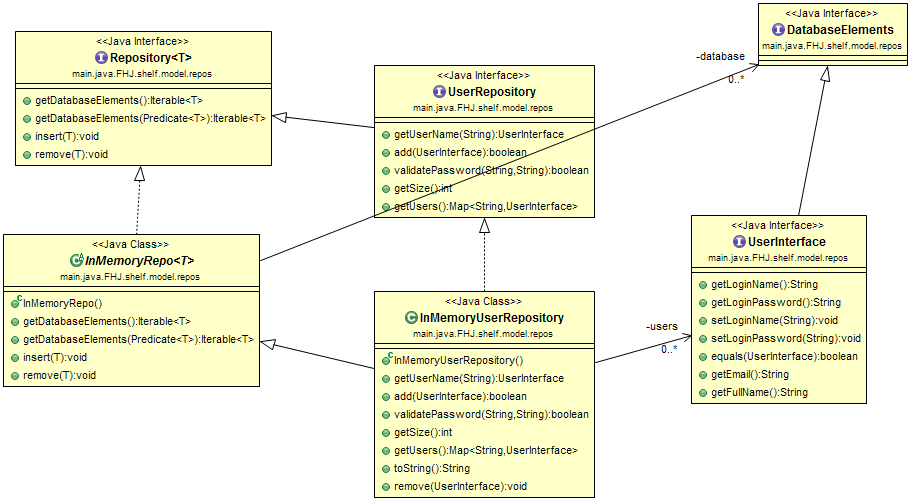
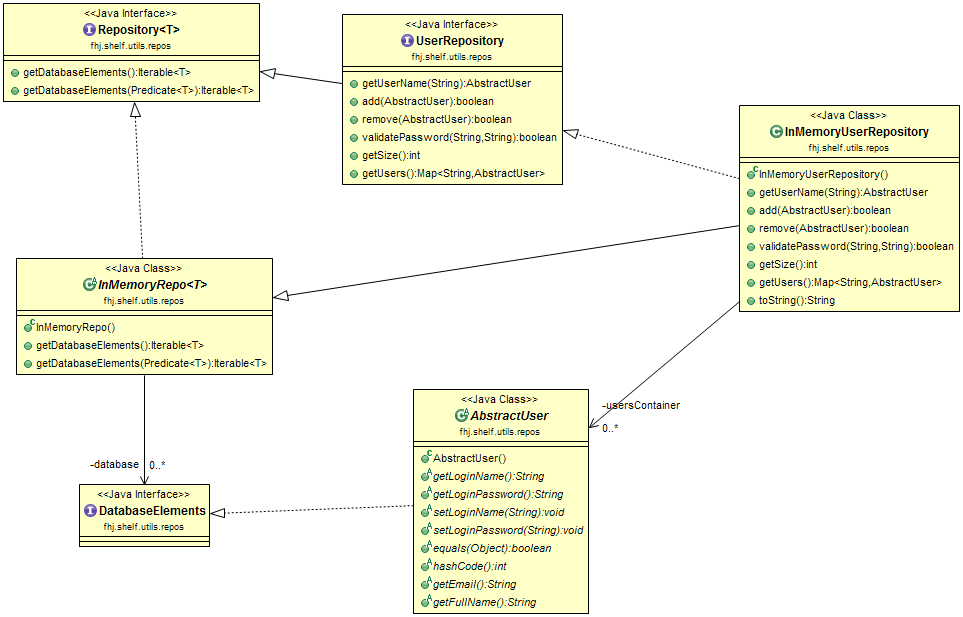
the end of cycles move abstractuser abstractshelf and user to repos package

diff --git a/gui-app/src/main/java/fhj/shelf/UI/BookCollection.java b/gui-app/src/main/java/fhj/shelf/UI/BookCollection.java
@@ -1,11 +1,9 @@
 package fhj.shelf.UI;
 
 import java.awt.HeadlessException;
-
 import java.awt.event.ActionEvent;
 import java.awt.event.ActionListener;
 import java.util.Map;
-
 import java.util.Map.Entry;
 import java.util.concurrent.ExecutionException;
 
@@ -14,16 +12,13 @@ import javax.swing.JComboBox;
 import javax.swing.JFrame;
 import javax.swing.JLabel;
 import javax.swing.JOptionPane;
-
 import javax.swing.JTextField;
 import javax.swing.SwingWorker;
+
 import fhj.shelf.commandsDomain.CreateAnElementInAShelf;
 import fhj.shelf.commandsDomain.GetAllShelfs;
-
-import fhj.shelf.utils.AbstractShelf;
-
+import fhj.shelf.utils.repos.AbstractShelf;
 import fhj.shelf.utils.repos.ElementsRepository;
-
 import fhj.shelf.utils.repos.ShelfRepository;
 
 @SuppressWarnings("serial")

diff --git a/domain/src/main/java/fhj/shelf/utils/repos/AbstractShelf.java b/domain/src/main/java/fhj/shelf/utils/repos/AbstractShelf.java
@@ -1,9 +1,9 @@
-package fhj.shelf.utils;
+package fhj.shelf.utils.repos;
 
 import java.util.Iterator;
 import java.util.concurrent.atomic.AtomicInteger;
 
-import fhj.shelf.utils.repos.DatabaseElements;
+import fhj.shelf.utils.Element;
 
 public abstract class AbstractShelf implements DatabaseElements {
 
@@ -34,11 +34,11 @@ public abstract class AbstractShelf implements DatabaseElements {
 	
 	public abstract void removeAllElements ();
 	
-	public abstract boolean remove(Element element);
+	public abstract boolean remove(AbstractElement element);
 
-	public abstract boolean add(Element element) ;
+	public abstract boolean add(AbstractElement element) ;
 
-	public abstract Iterator<Element> getAllElements();
+	public abstract Iterator<AbstractElement> getAllElements();
 
 
 }

diff --git a/gui-app/src/main/java/fhj/shelf/UI/ShelfDetails.java b/gui-app/src/main/java/fhj/shelf/UI/ShelfDetails.java
@@ -1,7 +1,6 @@
 package fhj.shelf.UI;
 
 import javax.swing.JFrame;
-
 import javax.swing.JScrollPane;
 import javax.swing.ListSelectionModel;
 import javax.swing.ScrollPaneConstants;
@@ -9,19 +8,16 @@ import javax.swing.SwingWorker;
 
 import java.awt.Dimension;
 import java.awt.FlowLayout;
-
 import java.util.Map;
 import java.util.Map.Entry;
 import java.util.concurrent.ExecutionException;
 
 import javax.swing.JTable;
-
 import javax.swing.JLabel;
-
 import javax.swing.table.DefaultTableModel;
 
 import fhj.shelf.commandsDomain.GetAllShelfs;
-import fhj.shelf.utils.AbstractShelf;
+import fhj.shelf.utils.repos.AbstractShelf;
 import fhj.shelf.utils.repos.ShelfRepository;
 import fhj.shelf.utils.repos.UserRepository;
 

diff --git a/domain/src/main/java/fhj/shelf/utils/repos/ElementsRepository.java b/domain/src/main/java/fhj/shelf/utils/repos/ElementsRepository.java
@@ -1,6 +1,5 @@
 package fhj.shelf.utils.repos;
 
-import fhj.shelf.utils.AbstractElement;
 
 
 
@@ -13,6 +12,13 @@ import fhj.shelf.utils.AbstractElement;
 
 	public interface ElementsRepository extends Repository<AbstractElement> {
 
+		
+		public abstract boolean add(AbstractElement element);
+		
+		
+		public abstract boolean remove(AbstractElement element);
+		
+		
 		/**
 		 * Gets the product with the given id, or {@code null} if none exists
 		 *  
@@ -21,8 +27,5 @@ import fhj.shelf.utils.AbstractElement;
 		 */
 		public AbstractElement getDatabaseElementById(long eid);
 
-		public abstract boolean add(AbstractElement element);
-
-		public abstract boolean remove(AbstractElement element);
 	}
 

diff --git a/gui-app/src/main/java/fhj/shelf/UI/CD.java b/gui-app/src/main/java/fhj/shelf/UI/CD.java
@@ -6,6 +6,7 @@ import java.awt.event.ActionListener;
 import java.util.Map;
 import java.util.Map.Entry;
 import java.util.concurrent.ExecutionException;
+
 import javax.swing.JButton;
 import javax.swing.JComboBox;
 import javax.swing.JFrame;
@@ -13,9 +14,10 @@ import javax.swing.JLabel;
 import javax.swing.JOptionPane;
 import javax.swing.JTextField;
 import javax.swing.SwingWorker;
+
 import fhj.shelf.commandsDomain.CreateAnElementInAShelf;
 import fhj.shelf.commandsDomain.GetAllShelfs;
-import fhj.shelf.utils.AbstractShelf;
+import fhj.shelf.utils.repos.AbstractShelf;
 import fhj.shelf.utils.repos.ElementsRepository;
 import fhj.shelf.utils.repos.ShelfRepository;
 

diff --git a/cmdLine-app/src/main/java/fhj/shelf/commands/PostShelfCollectionElement.java b/cmdLine-app/src/main/java/fhj/shelf/commands/PostShelfCollectionElement.java
@@ -4,7 +4,6 @@ import java.util.Map;
 import java.util.concurrent.ExecutionException;
 
 import fhj.shelf.commands.exceptions.CommandException;
-import fhj.shelf.utils.AbstractElement;
 import fhj.shelf.utils.Book;
 import fhj.shelf.utils.BookCollection;
 import fhj.shelf.utils.CD;
@@ -12,6 +11,7 @@ import fhj.shelf.utils.CDCollection;
 import fhj.shelf.utils.DVD;
 import fhj.shelf.utils.DVDCollection;
 import fhj.shelf.utils.Shelf;
+import fhj.shelf.utils.repos.AbstractElement;
 import fhj.shelf.utils.repos.ElementsRepository;
 import fhj.shelf.utils.repos.ShelfRepository;
 import fhj.shelf.utils.repos.UserRepository;

diff --git a/domain/src/main/java/fhj/shelf/commandsDomain/EditShelfElement.java b/domain/src/main/java/fhj/shelf/commandsDomain/EditShelfElement.java
@@ -4,7 +4,6 @@ import java.lang.reflect.Method;
 import java.util.concurrent.Callable;
 
 import fhj.shelf.commandsDomain.exceptions.CommandDomainException;
-import fhj.shelf.utils.AbstractShelf;
 import fhj.shelf.utils.Book;
 import fhj.shelf.utils.BookCollection;
 import fhj.shelf.utils.CD;
@@ -12,6 +11,7 @@ import fhj.shelf.utils.CDCollection;
 import fhj.shelf.utils.DVD;
 import fhj.shelf.utils.DVDCollection;
 import fhj.shelf.utils.Element;
+import fhj.shelf.utils.repos.AbstractShelf;
 import fhj.shelf.utils.repos.ElementsRepository;
 import fhj.shelf.utils.repos.ShelfRepository;
 

diff --git a/domain/src/main/java/fhj/shelf/commandsDomain/CreateAnElementInAShelf.java b/domain/src/main/java/fhj/shelf/commandsDomain/CreateAnElementInAShelf.java
@@ -4,7 +4,6 @@ import java.lang.reflect.Method;
 import java.util.concurrent.Callable;
 
 import fhj.shelf.commandsDomain.exceptions.CommandDomainException;
-import fhj.shelf.utils.AbstractElement;
 import fhj.shelf.utils.Book;
 import fhj.shelf.utils.BookCollection;
 import fhj.shelf.utils.CD;
@@ -13,6 +12,7 @@ import fhj.shelf.utils.DVD;
 import fhj.shelf.utils.DVDCollection;
 import fhj.shelf.utils.Element;
 import fhj.shelf.utils.Shelf;
+import fhj.shelf.utils.repos.AbstractElement;
 import fhj.shelf.utils.repos.ElementsRepository;
 import fhj.shelf.utils.repos.ShelfRepository;
 

diff --git a/cmdLine-app/src/test/java/fhj/shelf/CommandParserTest.java b/cmdLine-app/src/test/java/fhj/shelf/CommandParserTest.java
@@ -16,12 +16,12 @@ import fhj.shelf.commands.PostElement;
 import fhj.shelf.commands.PostShelf;
 import fhj.shelf.commands.PostShelfCollectionElement;
 import fhj.shelf.commands.PostUser;
-import fhj.shelf.utils.User;
 import fhj.shelf.utils.repos.ElementsRepository;
 import fhj.shelf.utils.repos.InMemoryElementsRepository;
 import fhj.shelf.utils.repos.InMemoryShelfRepository;
 import fhj.shelf.utils.repos.InMemoryUserRepository;
 import fhj.shelf.utils.repos.ShelfRepository;
+import fhj.shelf.utils.repos.User;
 import fhj.shelf.utils.repos.UserRepository;
 
 import org.junit.Test;

diff --git a/cmdLine-app/src/main/java/fhj/shelf/ShelfManagerApp.java b/cmdLine-app/src/main/java/fhj/shelf/ShelfManagerApp.java
@@ -25,12 +25,12 @@ import fhj.shelf.commands.PostShelf;
 import fhj.shelf.commands.PostShelfCollectionElement;
 import fhj.shelf.commands.PostUser;
 import fhj.shelf.commands.exceptions.CommandException;
-import fhj.shelf.utils.User;
 import fhj.shelf.utils.repos.ElementsRepository;
 import fhj.shelf.utils.repos.InMemoryElementsRepository;
 import fhj.shelf.utils.repos.InMemoryShelfRepository;
 import fhj.shelf.utils.repos.InMemoryUserRepository;
 import fhj.shelf.utils.repos.ShelfRepository;
+import fhj.shelf.utils.repos.User;
 import fhj.shelf.utils.repos.UserRepository;
 
 /**

diff --git a/domain/src/main/java/fhj/shelf/commandsDomain/CreateAnElementInACollectionInAShelf.java b/domain/src/main/java/fhj/shelf/commandsDomain/CreateAnElementInACollectionInAShelf.java
@@ -5,8 +5,8 @@ import java.util.concurrent.Callable;
 
 
 
+
 import fhj.shelf.commandsDomain.exceptions.CommandDomainException;
-import fhj.shelf.utils.AbstractElement;
 import fhj.shelf.utils.Book;
 import fhj.shelf.utils.BookCollection;
 import fhj.shelf.utils.CD;
@@ -14,6 +14,7 @@ import fhj.shelf.utils.CDCollection;
 import fhj.shelf.utils.DVD;
 import fhj.shelf.utils.DVDCollection;
 import fhj.shelf.utils.Shelf;
+import fhj.shelf.utils.repos.AbstractElement;
 import fhj.shelf.utils.repos.ElementsRepository;
 import fhj.shelf.utils.repos.ShelfRepository;
 

diff --git a/domain/src/main/java/fhj/shelf/commandsDomain/GetAnElementThatIsInAShelf.java b/domain/src/main/java/fhj/shelf/commandsDomain/GetAnElementThatIsInAShelf.java
@@ -2,8 +2,8 @@ package fhj.shelf.commandsDomain;
 
 import java.util.concurrent.Callable;
 
-import fhj.shelf.utils.AbstractElement;
-import fhj.shelf.utils.AbstractShelf;
+import fhj.shelf.utils.repos.AbstractElement;
+import fhj.shelf.utils.repos.AbstractShelf;
 import fhj.shelf.utils.repos.ElementsRepository;
 import fhj.shelf.utils.repos.ShelfRepository;
 
